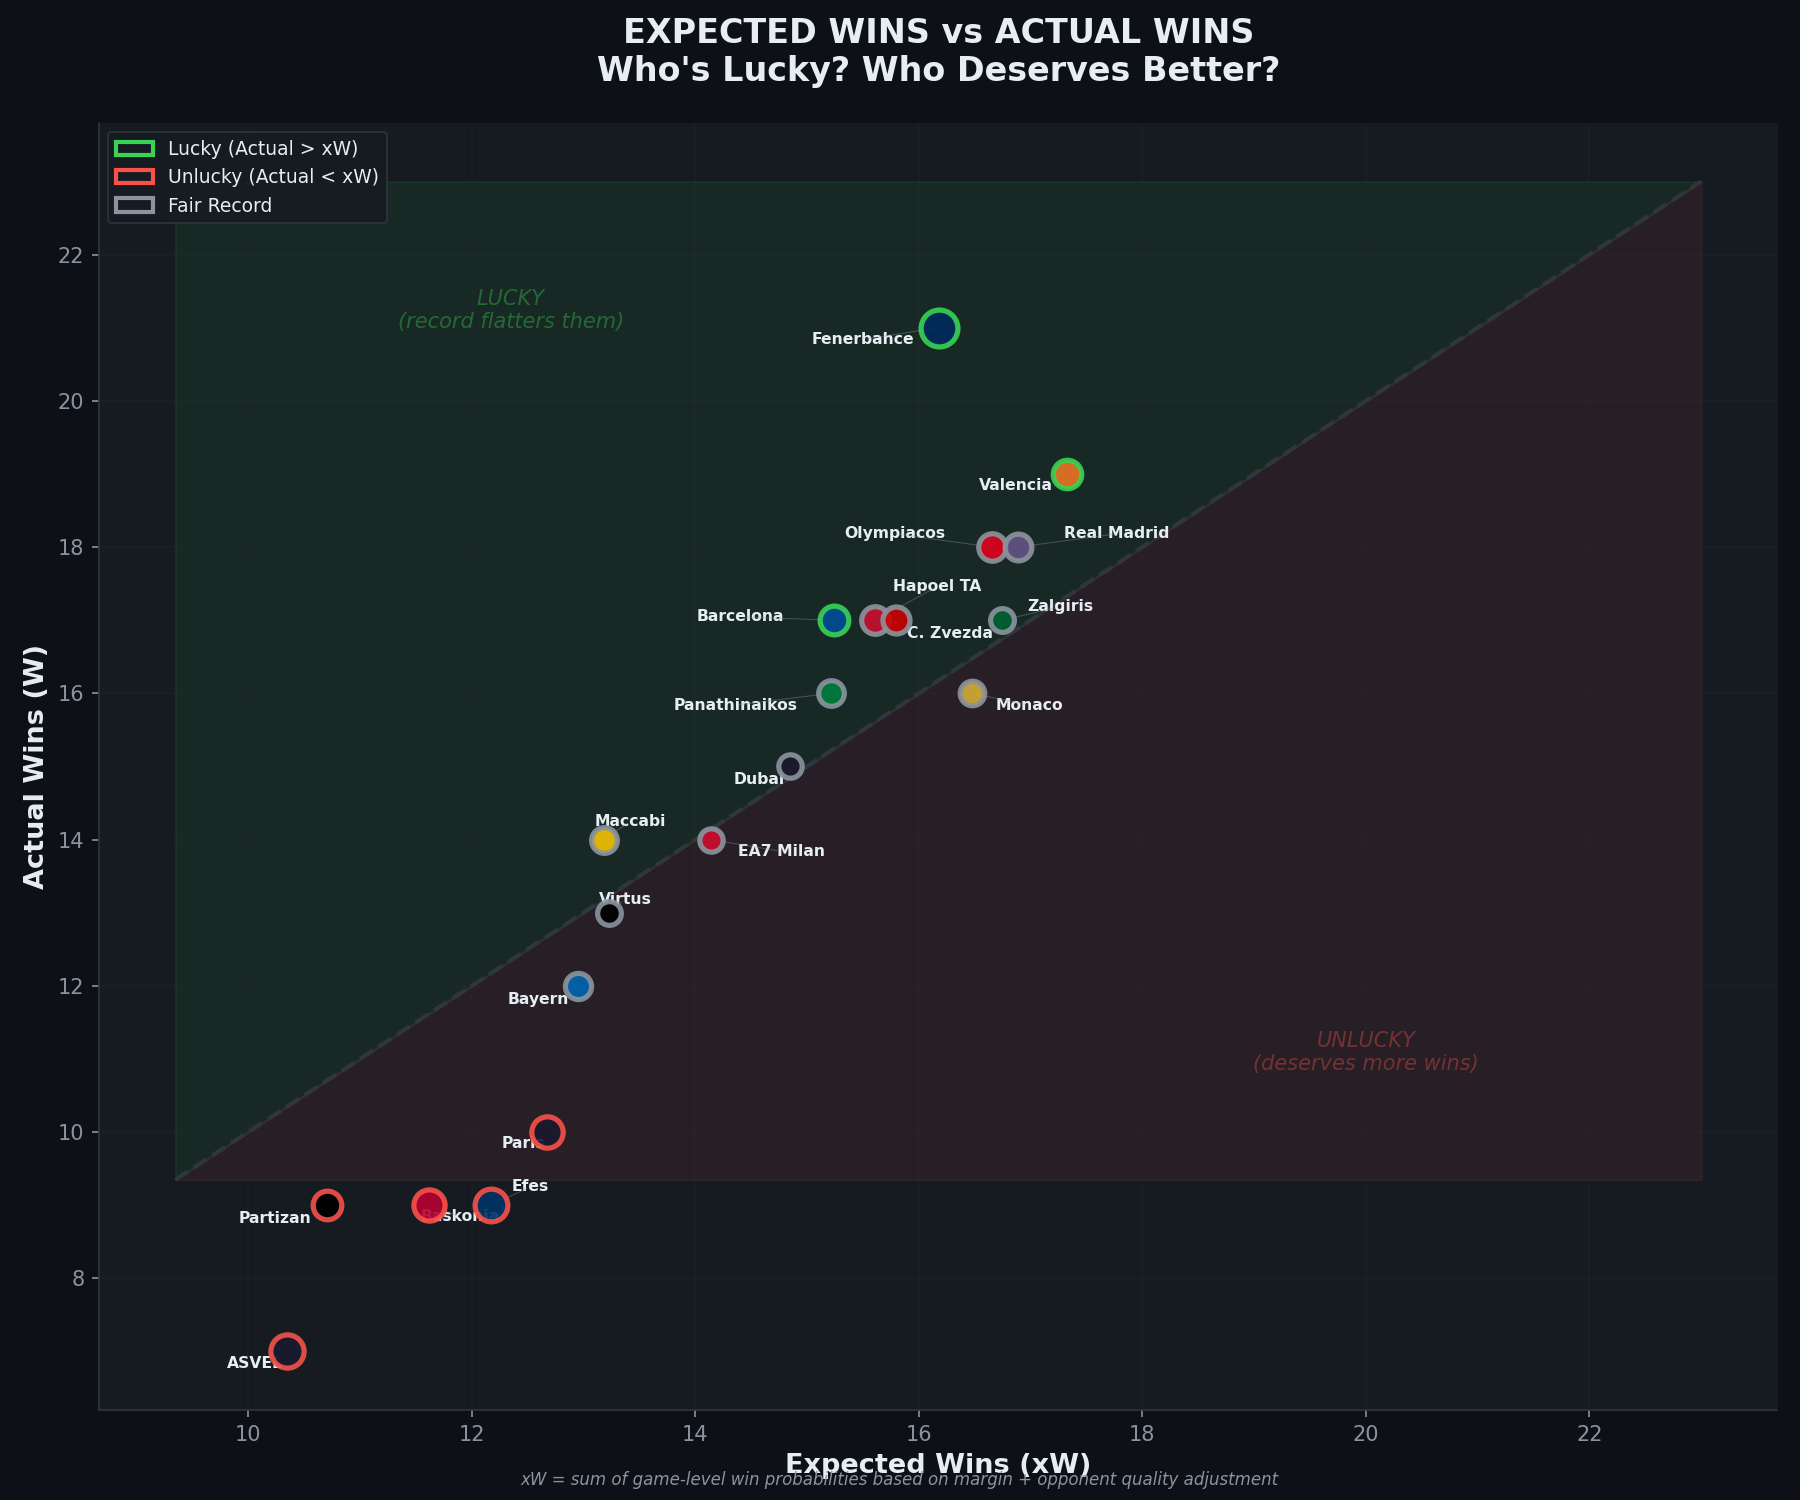
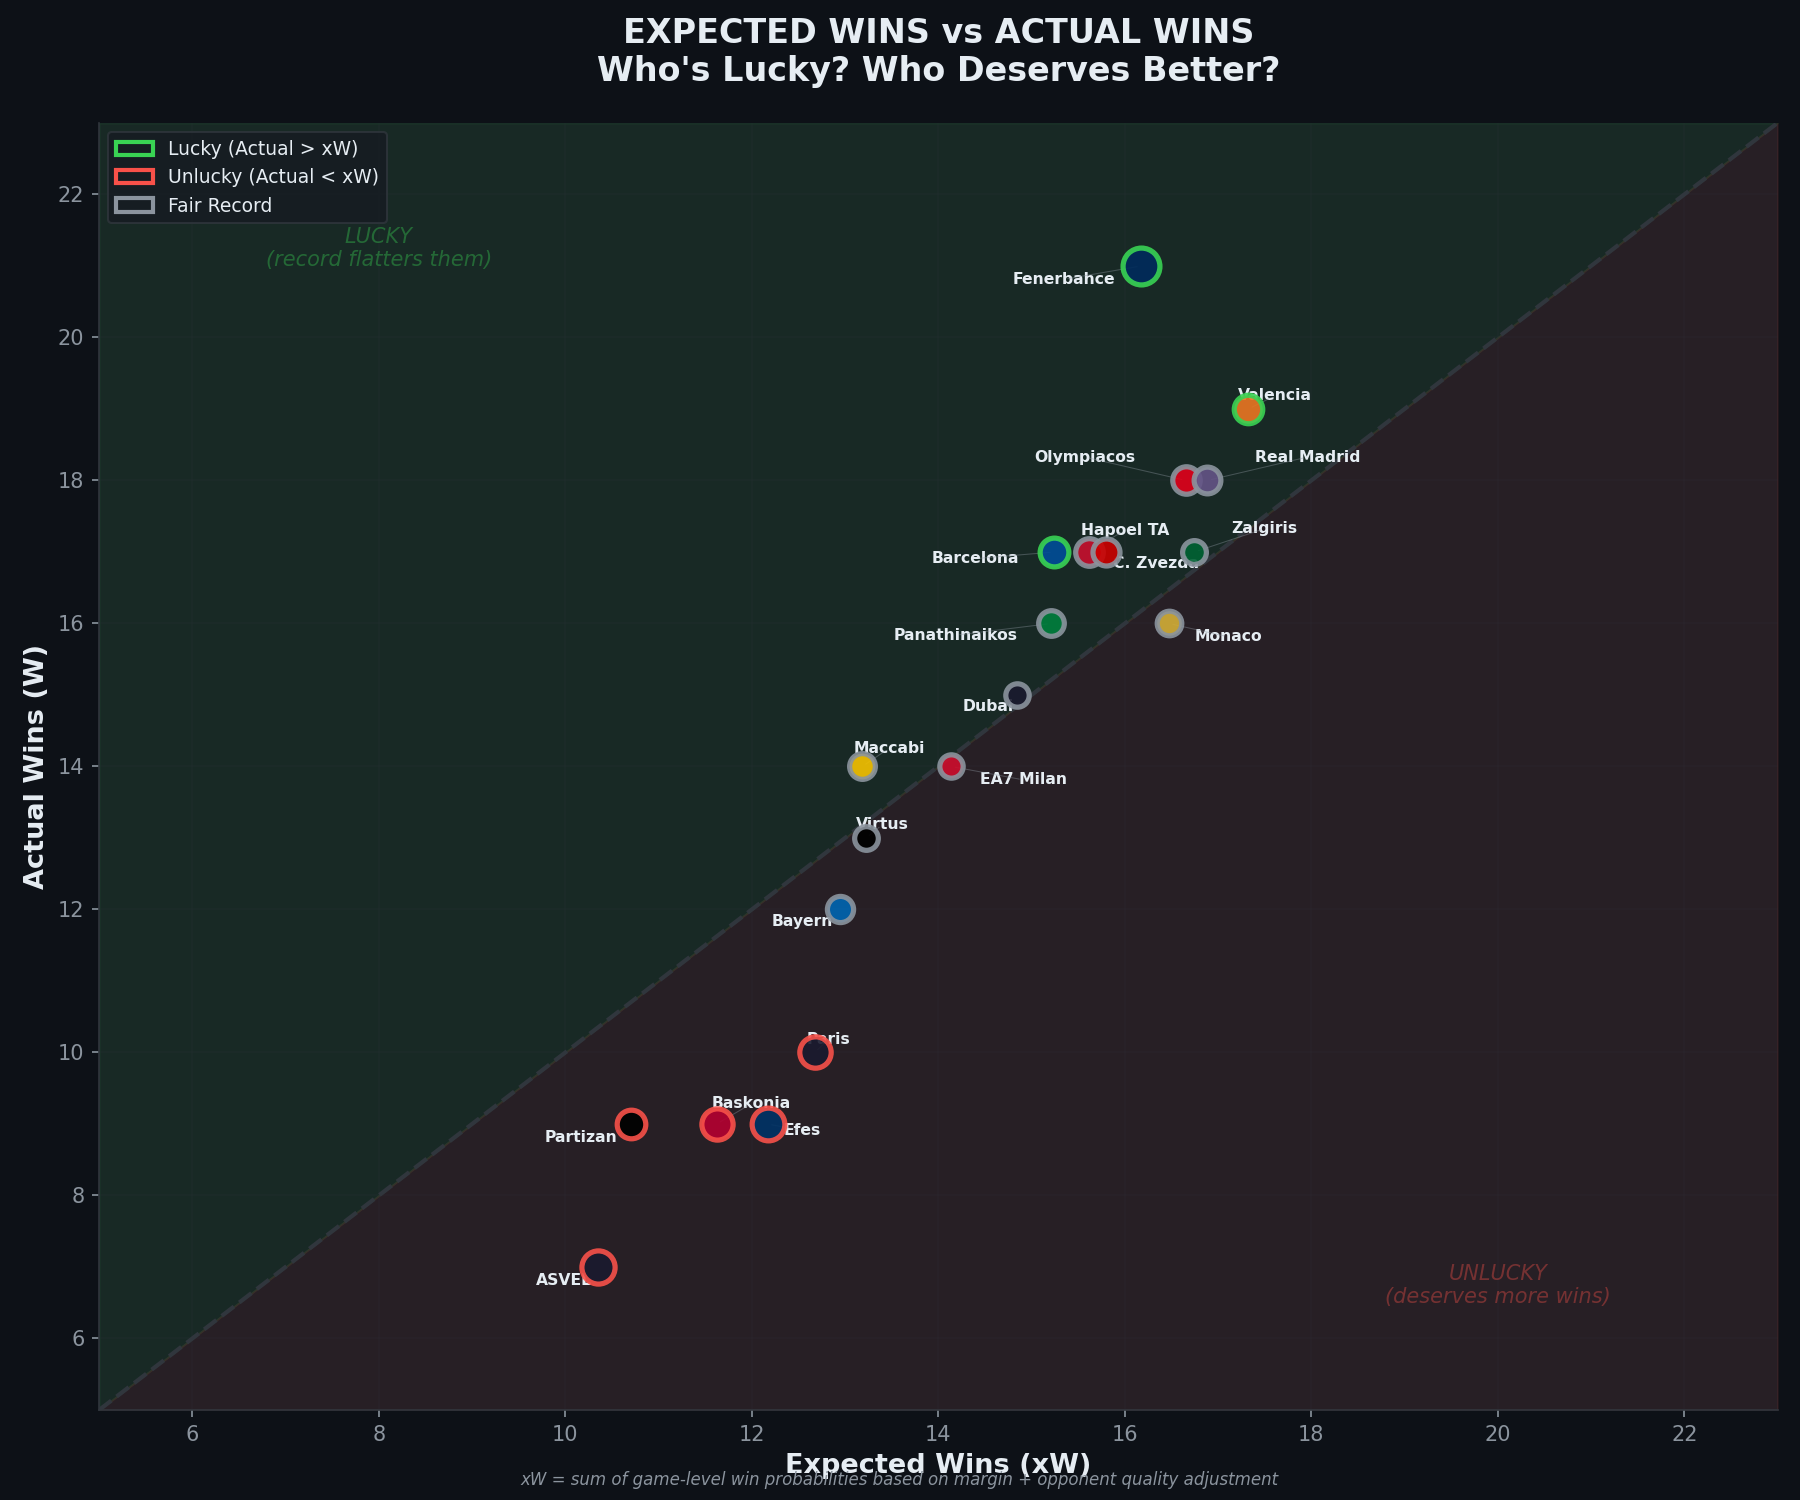
fix: Extend xW chart color regions to cover all data points

diff --git a/calculate_expected_wins.py b/calculate_expected_wins.py
@@ -211,15 +211,19 @@ def calculate_expected_wins():
     ax.set_facecolor('#161b22')
     
     # Diagonal line (Actual = xW)
-    max_w = max(t['actual_wins'] for _, t in sorted_teams) + 2
-    min_w = min(t['xW'] for _, t in sorted_teams) - 1
+    max_w = max(max(t['actual_wins'] for _, t in sorted_teams), 
+                max(t['xW'] for _, t in sorted_teams)) + 2
+    min_w = min(min(t['actual_wins'] for _, t in sorted_teams),
+                min(t['xW'] for _, t in sorted_teams)) - 2
     ax.plot([min_w, max_w], [min_w, max_w], '--', color='#30363d', linewidth=2, zorder=1)
     
-    # Fill regions
+    # Fill regions — extend to full axis range so no dots are outside
     ax.fill_between([min_w, max_w], [min_w, max_w], [max_w, max_w], 
                      alpha=0.08, color='#39d353', zorder=0)  # Lucky region (above)
     ax.fill_between([min_w, max_w], [min_w, min_w], [min_w, max_w], 
                      alpha=0.08, color='#f85149', zorder=0)  # Unlucky region (below)
+    ax.set_xlim(min_w, max_w)
+    ax.set_ylim(min_w, max_w)
     
     # Region labels
     ax.text(max_w - 3, min_w + 1.5, 'UNLUCKY\n(deserves more wins)', 
